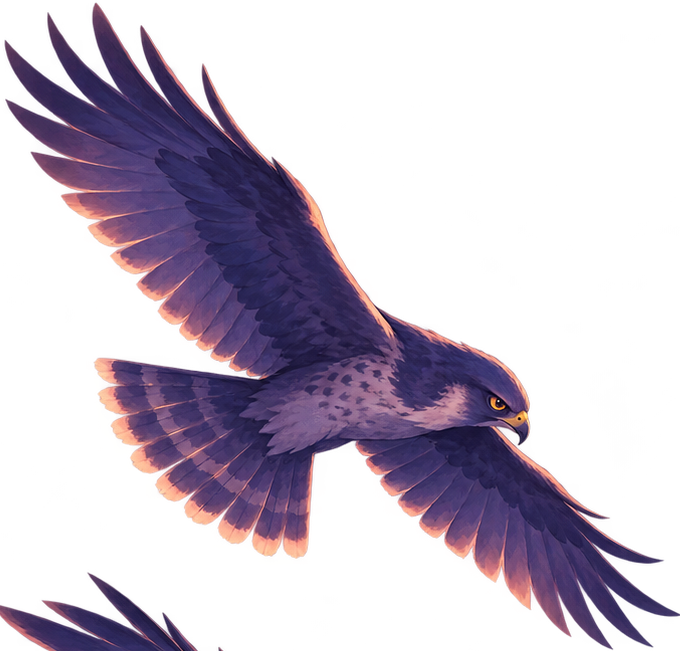
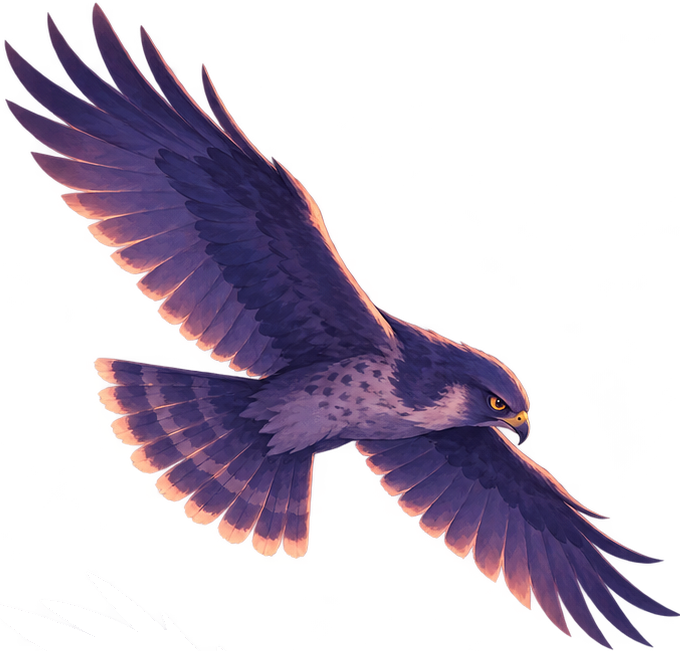
Fix canvas double-centring, falcon facing, and make Surge a real impulse
The canvas was centred twice (flex parent + Phaser autoCenter), shifting the
ENVELOP crop off-axis so safeArea()'s symmetric assumption placed the HUD
outside the frame: mobile lost the bird count and mastery entirely, and 1080p
desktop clipped ~14%. safeArea now measures the real canvas rect.

Surge raised the speed CEILING, but accelerating toward the cursor collapses
the chase term by the same amount - measured 325 -> 326 px/s, i.e. no surge at
all. It is now a world-frame impulse: +52% peak, settling back to cruise.

Falcon poses are drawn facing left and were never flipped, so the bird flew
backwards through its own dive; also cleaned neighbour-frame fragments out of
all four poses and cut it from ~11x flock scale to a sane size.

Changed region(s): [[0.0, 0.8602, 0.3088, 1.0]]

diff --git a/src/falcon.ts b/src/falcon.ts
@@ -44,6 +44,7 @@ export class FalconSystem {
   onStrikeResolved: ((taken: number, gathered: boolean, mobbed: boolean) => void) | null = null
   /** Flock size when the zone armed — mobbing needs ~70% of it intact. */
   private zoneArrivalCount = 120
+  private lastX = 0
 
   constructor(scene: Phaser.Scene, audio: GameAudio, zoneXs: number[]) {
     this.scene = scene
@@ -78,8 +79,18 @@ export class FalconSystem {
       this.falcon.setTexture(key)
       this.falcon.clearTint()
       const src = this.scene.textures.get(key).getSourceImage() as { width: number; height: number }
-      this.falcon.setScale(310 / src.width)
+      // the flock is 27px across; a 310px raptor read as ~11x their size.
+      // 210 keeps it clearly the biggest thing in the sky without absurdity.
+      this.falcon.setScale(210 / src.width)
     }
+  }
+
+  /** Point the bird where it is going. The poses are drawn facing left, so
+   * travelling right means flipping — otherwise it flies backwards through
+   * its own dive, which is exactly what the audit caught. */
+  private faceTravel(vx: number): void {
+    if (Math.abs(vx) < 1) return
+    this.falcon.setFlipX(vx > 0)
   }
 
   update(dt: number, flock: Flock, scrollX: number, viewW: number, obstacles: Obstacle[] = []): void {
@@ -131,7 +142,10 @@ export class FalconSystem {
       this.setPose('bank')
       this.falcon.setVisible(true)
       const wob = Math.sin(this.timer * 4.2)
-      this.falcon.setPosition(flock.centerX + 60 + wob * 30, 120 + wob * 16)
+      const bankX = flock.centerX + 60 + wob * 30
+      this.faceTravel(bankX - (this.lastX || bankX))
+      this.lastX = bankX
+      this.falcon.setPosition(bankX, 120 + wob * 16)
       this.falcon.setRotation(wob * 0.08)
       if (t > this.window) {
         this.phase = 'strike'
@@ -144,6 +158,8 @@ export class FalconSystem {
       this.setPose(p < 0.6 ? 'dive' : 'strike')
       const fx = this.strikeX + (p - 0.5) * 260
       const fy = -160 + p * (flock.centerY + 240)
+      this.faceTravel(fx - (this.lastX || fx))
+      this.lastX = fx
       this.falcon.setPosition(fx, fy)
       this.falcon.setRotation(0.9 - p * 0.5)
       // carried birds trail from the talons
@@ -158,9 +174,10 @@ export class FalconSystem {
       const p = Math.min(1, this.timer / 0.8)
       const fx = this.strikeX + 130 + p * 900
       const fy = flock.centerY + 80 - p * (flock.centerY + 500)
+      this.faceTravel(fx - (this.lastX || fx))
+      this.lastX = fx
       this.falcon.setPosition(fx, fy)
       this.falcon.setRotation(-0.4)
-      this.falcon.setFlipX(false)
       for (const c of this.carried) c.sprite.setPosition(fx + c.dx, fy + c.dy)
       if (p >= 1) {
         this.falcon.setVisible(false)
@@ -173,7 +190,7 @@ export class FalconSystem {
 
   /** Resolve the strike against the flock's CURRENT formation. */
   private beginStrike(flock: Flock): void {
-    this.falcon.setVisible(true).setFlipX(false)
+    this.falcon.setVisible(true)
     this.strikeX = flock.centerX
     const gathered = flock.form > 0.35
 

diff --git a/src/flock.ts b/src/flock.ts
@@ -311,8 +311,21 @@ export class Flock {
   /** Tap SPACE: the flock snaps tight and slingshots forward. Strained
    * flocks produce a ragged, weaker pulse — strain is the anti-spam. */
   surge(): void {
-    this.pulse = Math.max(this.pulse, 1 - this.gatherStrain * 0.6)
+    const strength = 1 - this.gatherStrain * 0.6
+    this.pulse = Math.max(this.pulse, strength)
     this.gatherTime += 0.5 * this.strainMult
+    // A raised speed CEILING alone produced no surge at all: accelerating
+    // toward the cursor shrinks `idist`, which collapses the `chase` term by
+    // almost exactly what the pulse added (measured 325 -> 326 px/s). So the
+    // slingshot has to be a real impulse in the world frame — velocity the
+    // steering has to catch up to, not a limit it never reaches.
+    const hx = this.meanVX, hy = this.meanVY
+    const hm = Math.hypot(hx, hy) || 1
+    const kick = 190 * strength
+    for (const b of this.birds) {
+      b.vx += (hx / hm) * kick
+      b.vy += (hy / hm) * kick
+    }
   }
 
   /** Tap SHIFT: wings flare, momentum dies — the overshoot panic button. */
@@ -834,11 +847,13 @@ export class Flock {
         (1 + this.pulse * 0.45 + this.draft * 0.25 + stooping + this.diveLift * DIVE_LIFT_SPEED) *
         (1 - this.flareAmt * 0.62)
       const sp = Math.hypot(b.vx, b.vy) || 1
-      const shepherd = this.flareAmt > 0.1 ? 5.2 : 2.2
+      // during a surge the shepherd only accelerates — otherwise it spends the
+      // whole pulse dragging the impulse back down to cruise
+      const shepherd = this.flareAmt > 0.1 ? 5.2 : this.pulse > 0.12 && sp > cruise ? 0.35 : 2.2
       const targetSp = clamp(
         sp + (cruise - sp) * (1 - Math.exp(-shepherd * dt)),
         TUNING.minSpeed * (1 - this.flareAmt * 0.55),
-        TUNING.maxSpeed * (1 + this.pulse * 0.18 + stooping + this.diveLift * DIVE_LIFT_SPEED * 0.5),
+        TUNING.maxSpeed * (1 + this.pulse * 0.5 + stooping + this.diveLift * DIVE_LIFT_SPEED * 0.5),
       )
       b.vx = (b.vx / sp) * targetSp
       b.vy = (b.vy / sp) * targetSp

diff --git a/src/ui.ts b/src/ui.ts
@@ -66,10 +66,25 @@ export function voice(size: number, color: string = INK.soft, tracking = 0): Tex
 export function safeArea(scene: Phaser.Scene): { x: number; y: number; w: number; h: number } {
   const gw = scene.scale.width
   const gh = scene.scale.height
-  const vw = scene.scale.parentSize.width || gw
-  const vh = scene.scale.parentSize.height || gh
-  const k = Math.max(vw / gw, vh / gh)
-  const w = Math.min(gw, vw / k)
-  const h = Math.min(gh, vh / k)
+  const canvas = scene.game.canvas
+  // MEASURE the crop rather than assuming it is symmetric: any stray centring
+  // (a flex parent, a margin) shifts it off-axis, and an assumed split then
+  // places the HUD outside the frame entirely.
+  if (canvas) {
+    const r = canvas.getBoundingClientRect()
+    const k = r.height / gh || 1
+    const vw = window.innerWidth
+    const vh = window.innerHeight
+    const left = Math.max(0, -r.left) / k
+    const top = Math.max(0, -r.top) / k
+    const right = Math.max(0, r.right - vw) / k
+    const bottom = Math.max(0, r.bottom - vh) / k
+    const w = Math.max(200, gw - left - right)
+    const h = Math.max(200, gh - top - bottom)
+    return { x: left, y: top, w, h }
+  }
+  const k = Math.max((scene.scale.parentSize.width || gw) / gw, (scene.scale.parentSize.height || gh) / gh)
+  const w = Math.min(gw, (scene.scale.parentSize.width || gw) / k)
+  const h = Math.min(gh, (scene.scale.parentSize.height || gh) / k)
   return { x: (gw - w) / 2, y: (gh - h) / 2, w, h }
 }
